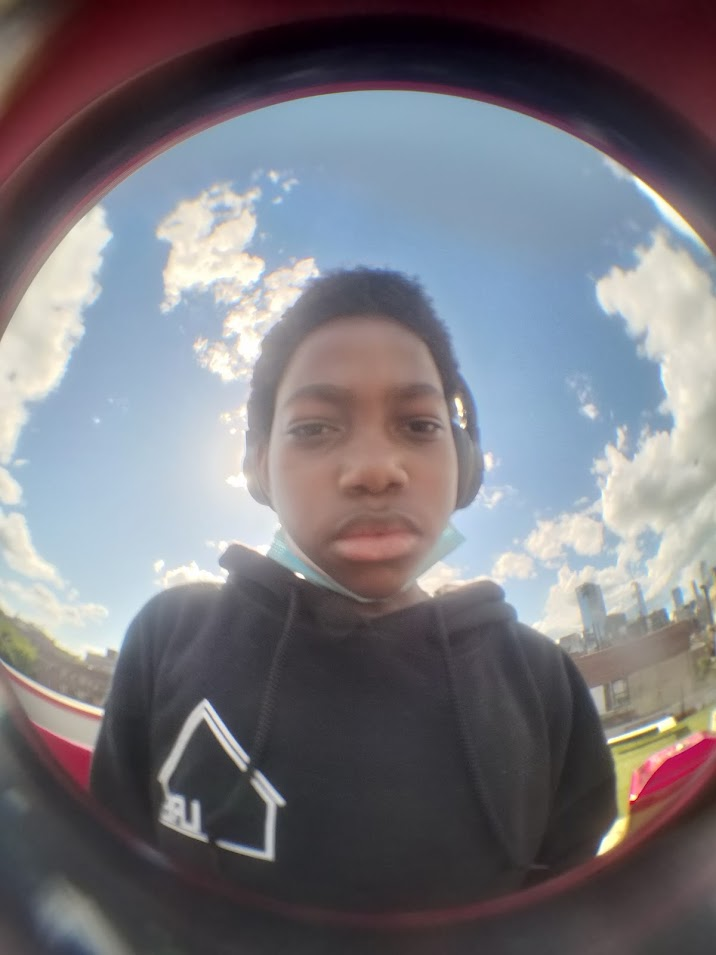
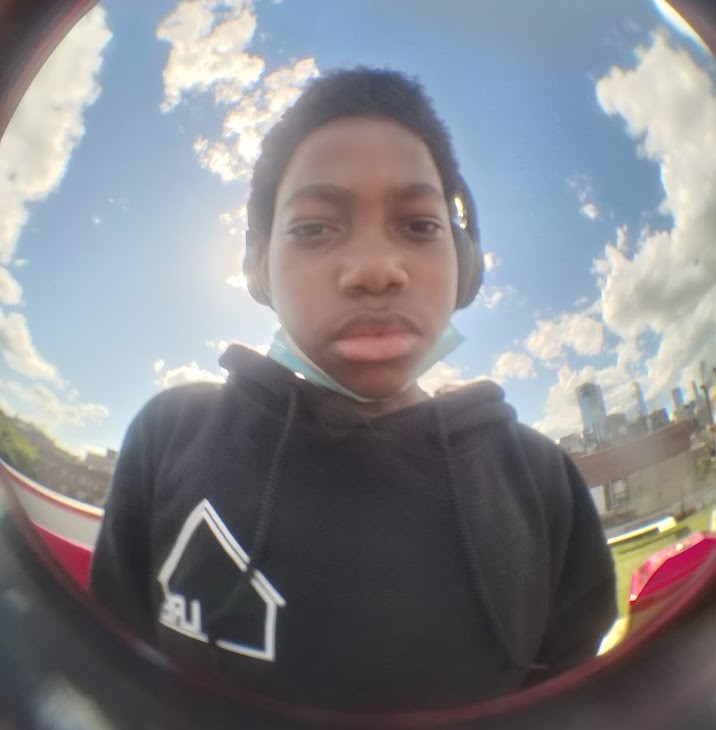
added css

diff --git a/index.html b/index.html
@@ -8,31 +8,53 @@
     <link rel="stylesheet" href="style.css">
 </head>
 <body>
-    <div id="navbar">
-        <div>About Me</div>
-        <div>Education</div>
-        <div>Extracurricular</div>
-        <div>Projects</div>
-        <div>Skills</div>
-        <a id="contact" href="mailto:dolusheki@gmail.com">Contact Me!</a>
-    </div>
+    <header id="navbar">
+        <h3>Daniel Olusheki's Profile</h3>
+        <nav>
+            <ul id="navbar_items"> 
+                <li>About Me</li>
+                <li>Education</li>
+                <li>Extracurricular</li>
+                <li>Projects</li>
+                <li>Skills</li>
+            </ul>
+        </nav>
+        <a id="contact" href="mailto:dolusheki@gmail.com"><button>Contact Me</button></a>
+    </header>
+<!-- hr makes the lines in between each section -->
+<hr> 
 
     <div id="about_me">
-        <img src="profile.jpg" alt="Picture of Daniel Olusheki">
-        <p>This is me, Daniel Olusheki. I'm a Black male and a 10th Grader who goes to Little Red School House and Elisbath Irwin High School. Through my years in highschool, I'm exploring oppurtunies. Aspiring to be a 
-            Designer/Artist, Photographer, Computer Science Major, but most importantly, a leader. </p>
-        <p>Did you know, the hoodie that i'm wearing in this photo is actually one that I created for my school?</p>
+        <img id="daniel" src="profile.jpg" alt="Picture of Daniel Olusheki">
+        <p>This is me, Daniel Olusheki. I'm a Black male. Through my years in highschool, I'm exploring oppurtunies. Aspiring to be a 
+            Designer/Artist, Photographer, Computer Science Major, but most importantly, a leader. Did you know, the hoodie that i'm wearing in this photo is actually one that I designed for my school?</p>
     </div>
+<hr>
 
-    <div id="Education"> 
-        <img src="lrei.png" alt="Picture of LREI">
+    <div id="education"> 
+        <a href="https://www.lrei.org/"><img id="lrei" src="lrei.png" alt="Picture of LREI"></a>
         <p>I'm a 10th Grader at Little Red School House and Elisabeth Irwin High School. I'm going to be a High School Graduate in June 2025. </p>
         <p>I'm in several Extracurriculars and Clubs at LREI, including Student Government, Jazz ensemble, and more at the extracurricular page</p>
     </div>
+<hr>
 
     <div id="extracurricular">
-        <img src="trumpet.jpg" alt="Picture of me playing Trumpet">
+        <img id="trumpet" src="trumpet.jpg" alt="Picture of me playing Trumpet">
+        <ul>
+            <li>C.A.C Wosem Church | Volunteer | April 2020 - Jul 2022 | 100+ Hours of Service</li>
+            <li>Jazz Ensemble | Instrumentalist | September 2019 - July 2022</li>
+            <li>Black Student Union | Member | September 2019 - July 2022</li>
+            <li>Makerspace | Member | March 2022 - July 2022</li>
+            <li>Student Government | Representative | September 2021 - July 2022</li>
+        </ul>
+    </div>
+<hr>
 
+    <div id="projetcs">
+        <p>I do plenty of art constantly, here is a portfolio!</p>
+        <a></a>
+        <p>Here are some research projects that I've done in the past too!</p>
+        <a href=""></a>
     </div>
     
 </body>

diff --git a/style.css b/style.css
@@ -1,0 +1,121 @@
+header {
+    box-sizing: border-box;
+    margin: 0;
+    padding: 0;
+    background-color: lightblue;
+
+    display: flex;
+    justify-content: space-between;
+    align-items: center;
+    padding: 30px 10%;
+}
+
+button {
+    padding: 9px 25px;
+    font-family: monospace;
+    font-weight: 500;
+    font-size: 16px;
+    background-color: lightyellow;
+    color:black;
+    border: none;
+    border-radius: 50px;
+}
+
+button:hover {
+    color: blue;
+    cursor: pointer;
+    border-style: groove;
+}
+
+li, a, h3 {
+    font-family: 'Trebuchet MS';
+    font-weight: 500;
+    font-size: 20px;
+    color: black;
+    text-decoration: none;
+    cursor:pointer;
+}
+
+h3 {
+    padding: 9px 25px;
+    border-radius: 20px;
+    background-color: lightcoral;
+}
+
+#navbar_items {
+    list-style: none;
+}
+
+#navbar_items li:hover {
+    transition: ease-in 0.5;
+    background-color: lightyellow;
+}
+
+#navbar_items li{
+    display: inline-block;
+    padding: 0px 20px;
+} 
+
+/* ^^^^^^^^^^^^^^^^^^^^^^^^^^^^^^^^^^^^^ NAV BAR ^^^^^^^^^^^^^^^^^^^^^^^^^^^^^^^^^^^^^^^^^^^^^ */
+
+
+
+/* Aestethics of the page  */
+
+body {
+    background-color: lightblue;
+}
+hr {
+    color: lightcoral;
+    background-color: lightcoral;
+}
+
+/* Aestethic of the page  */
+
+#daniel {
+    height: 300px;
+    border-radius: 100%;
+}
+
+#about_me {
+    box-sizing: border-box;
+    margin: 0;
+    padding: 0;
+    background-color: lightblue;
+
+    display: flex;
+    padding: 20px 5%;
+}
+
+#about_me p {
+    align-items: center;
+    font-size: larger;
+}
+
+/* ^^^^^^^^^^^^^^^^^^^^^^^^^ ABOUT ME ^^^^^^^^^^^^^^^^^^^^^^^^^^^^^^^ */
+
+#lrei {
+    width: 100px;
+}
+
+#education {
+    display: flex;
+    align-items: center;
+    padding: 20px 200px;
+}
+
+#education p {
+    font-size: larger;
+    padding: 10px 100px;
+}
+
+#education h2 {
+
+    display: block;
+}
+
+/* ^^^^^^^^^^^^^^^^^^^^^^^^^^^^^ EDUCATION ^^^^^^^^^^^^^^^^^^^^^^^^^^ */
+
+#extracurricular {
+    display: flex;
+}
